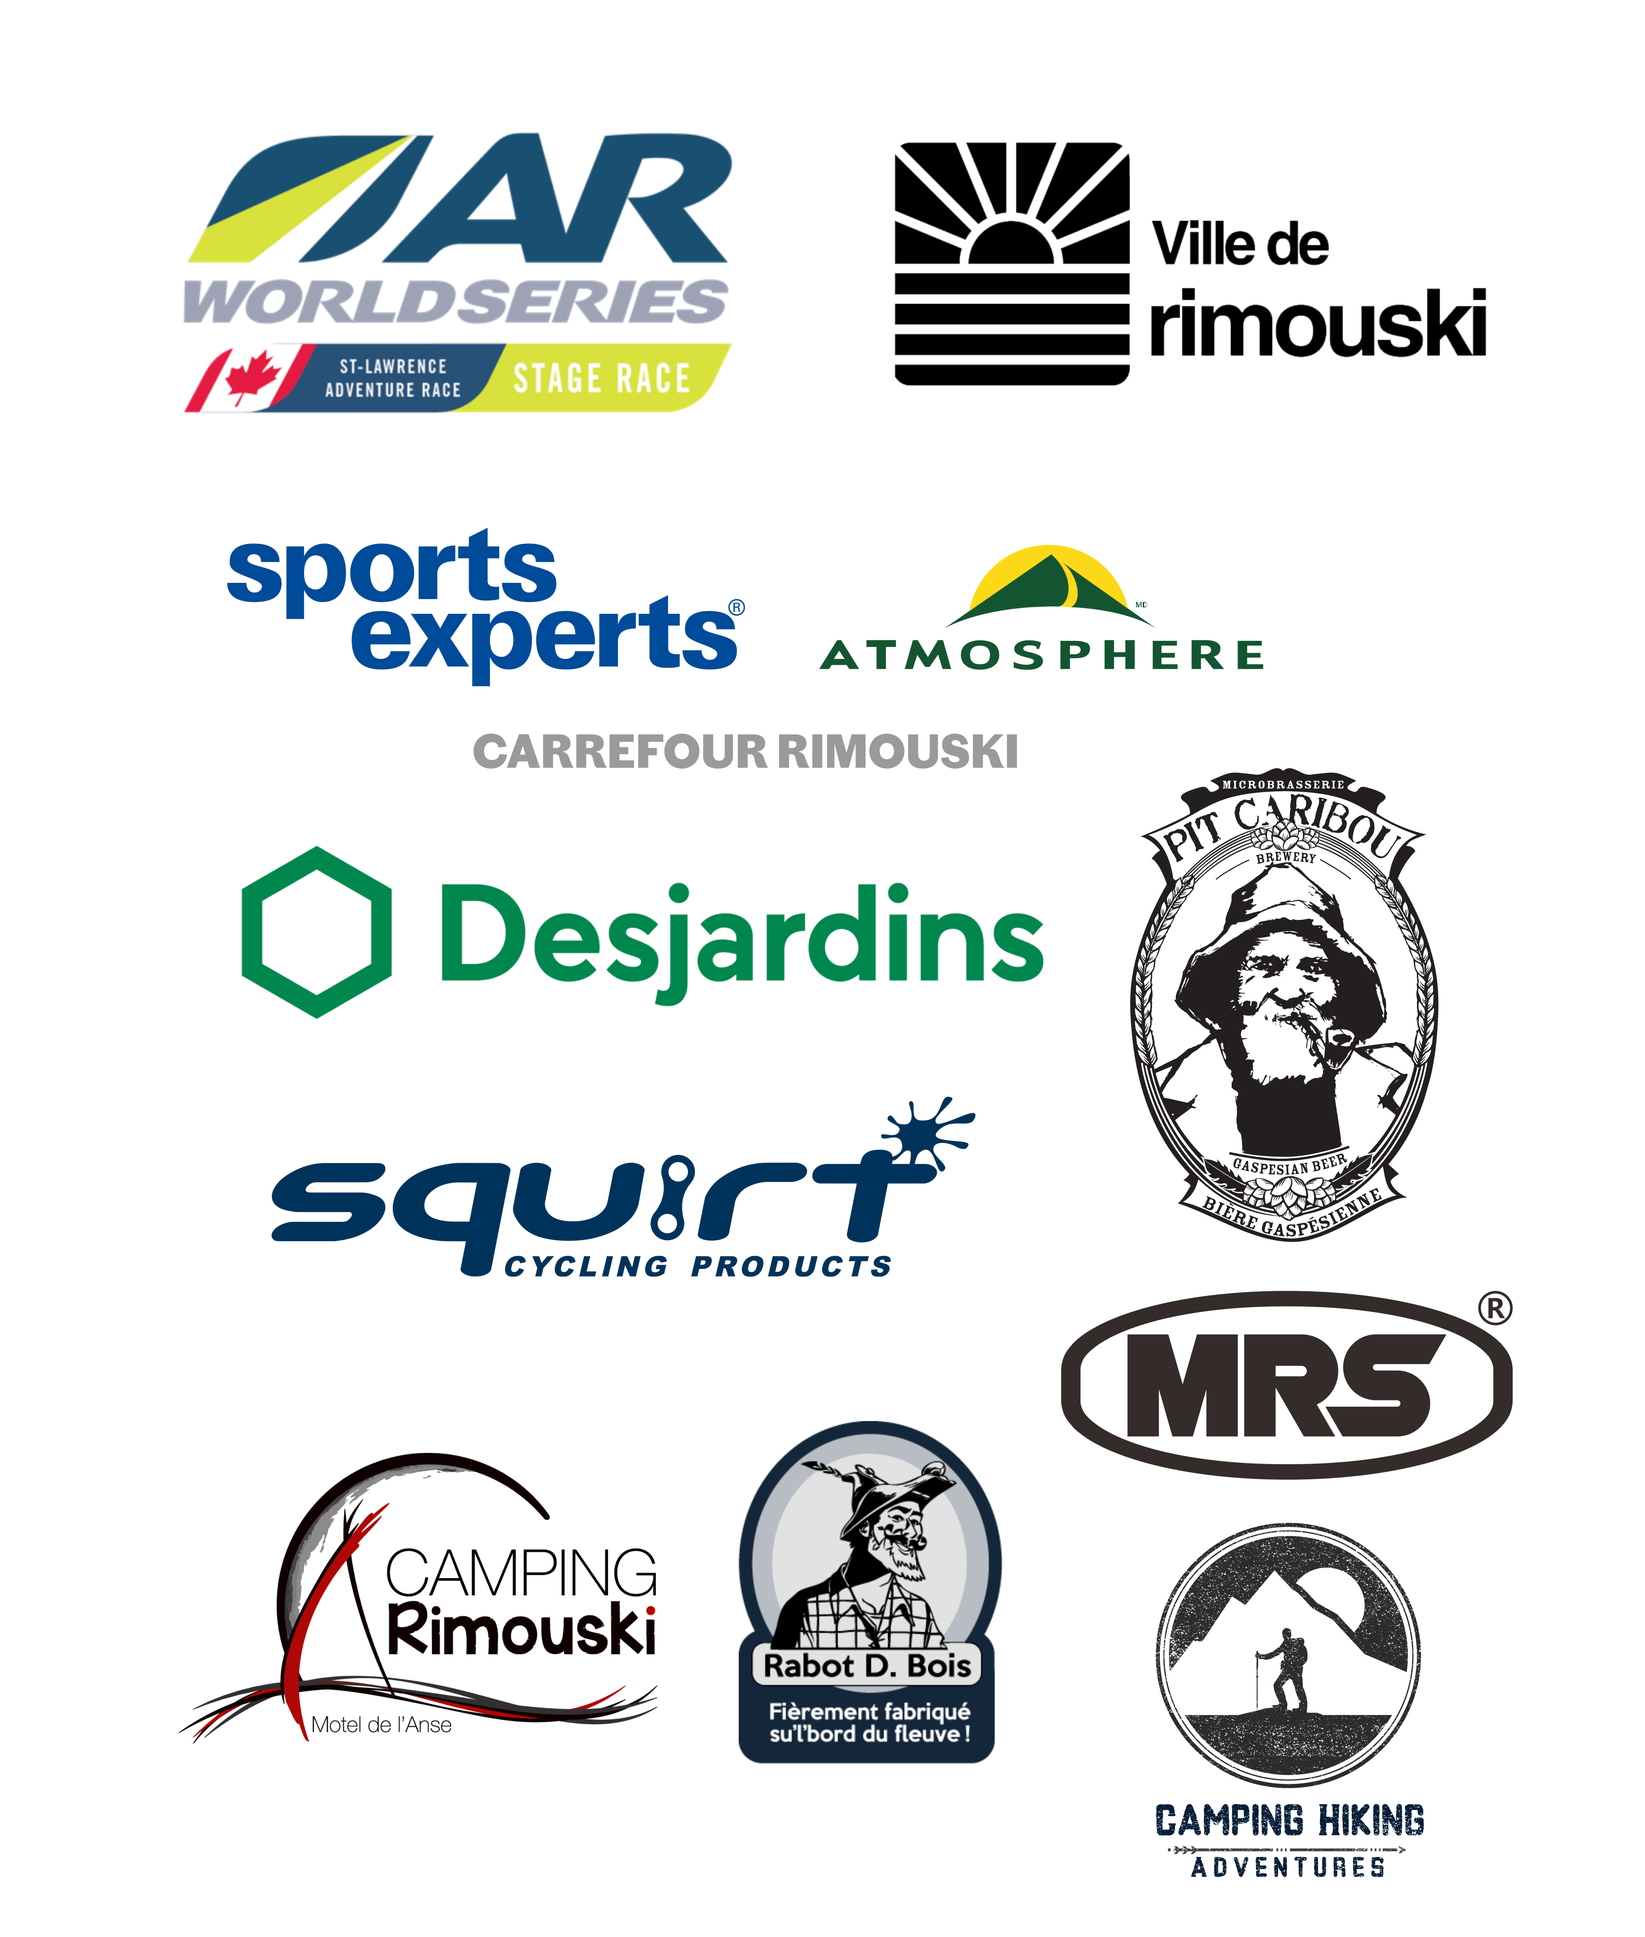
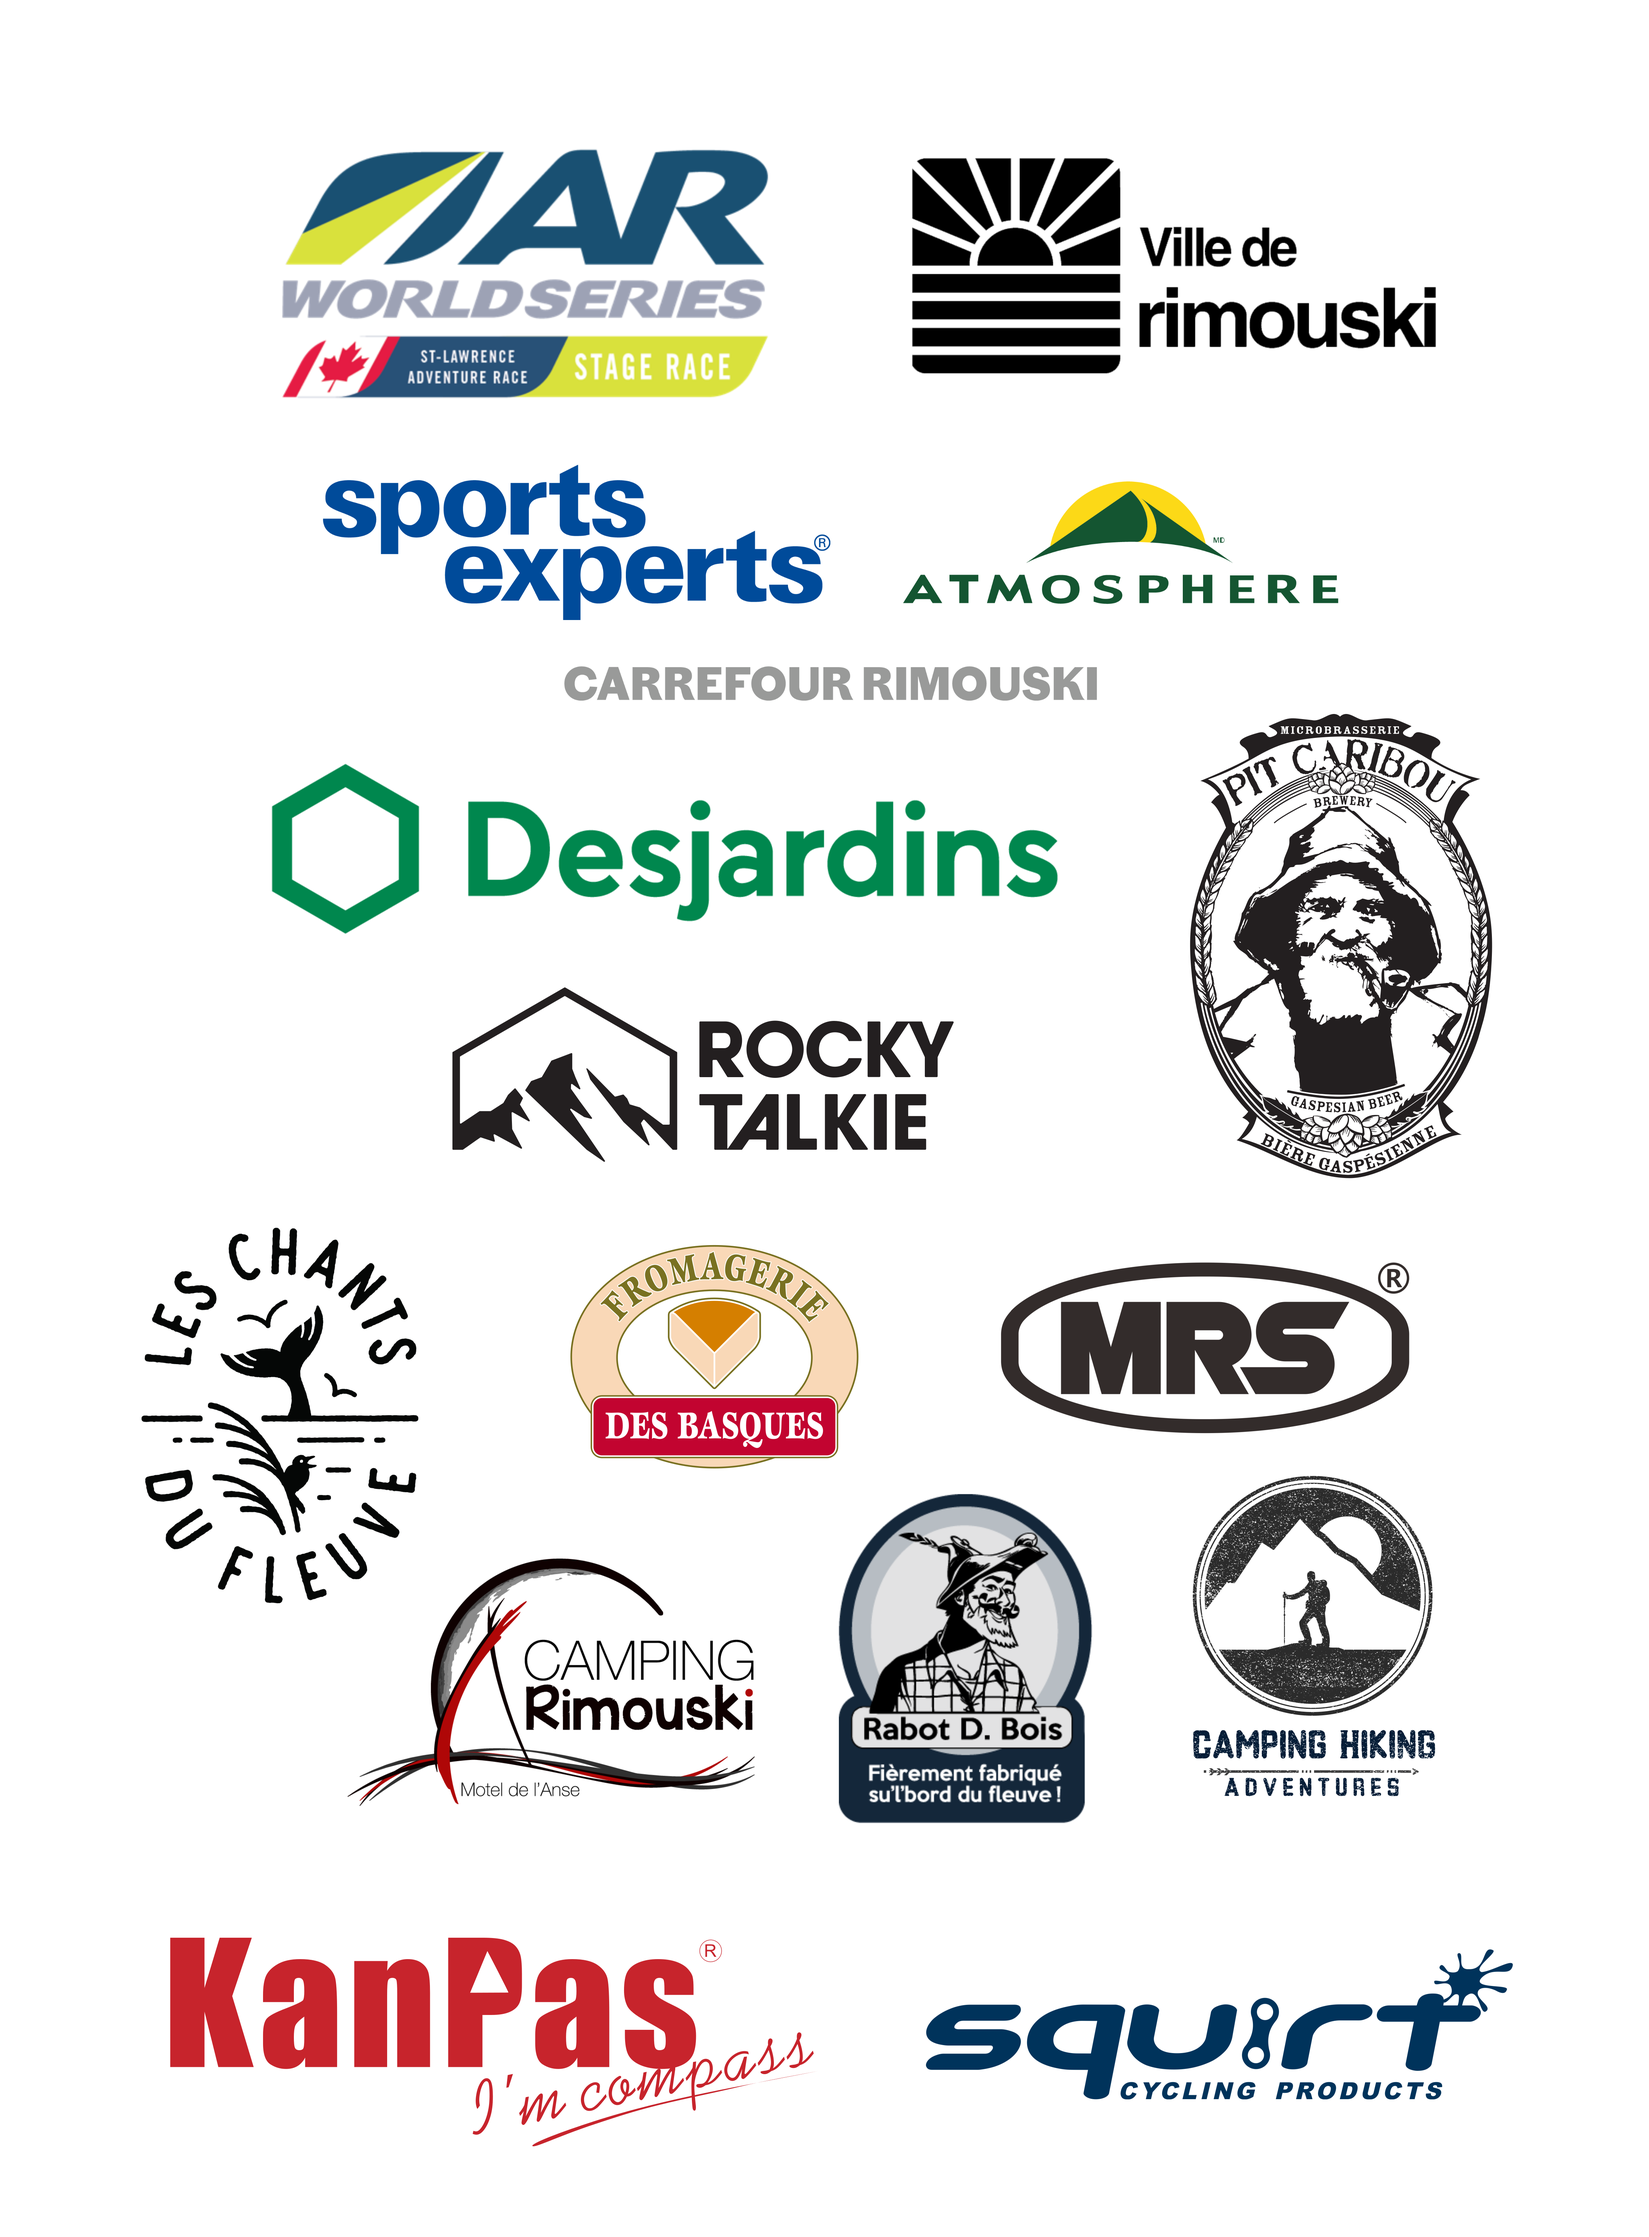
update partenaires

Changed region(s): [[0.0933, 0.0622, 0.933, 0.964]]

diff --git a/exampleSite/content/french/partenaires.md b/exampleSite/content/french/partenaires.md
@@ -45,7 +45,15 @@ about:
 
   - Camping Rimouski: https://campingrimouski.com/
 
+  - Fromagerie Les Basques: https://www.fromageriedesbasques.ca/  
+
+  - Les Chants du Fleuve Kombucha: https://www.leschantsdufleuve.ca/
+
+  - Kanpas: https://www.kanpas.com/
+
   - Rabot D. Bois: https://www.rabotdbois.com/
+
+  - Rockie Talkie: https://rockytalkie.ca/
 
   - Squirt Cycling Product: https://www.squirtcyclingproducts.com/
 

diff --git a/exampleSite/content/english/partenaires.md b/exampleSite/content/english/partenaires.md
@@ -35,7 +35,15 @@ about:
 
 - Camping Rimouski: https://campingrimouski.com/
 
+- Fromagerie Les Basques: https://www.fromageriedesbasques.ca/  
+
+- Les Chants du Fleuve Kombucha: https://www.leschantsdufleuve.ca/
+
+- Kanpas: https://www.kanpas.com/
+
 - Rabot D. Bois: https://www.rabotdbois.com/
+
+- Rockie Talkie: https://rockytalkie.ca/
 
 - Squirt Cycling Product: https://www.squirtcyclingproducts.com/
 
